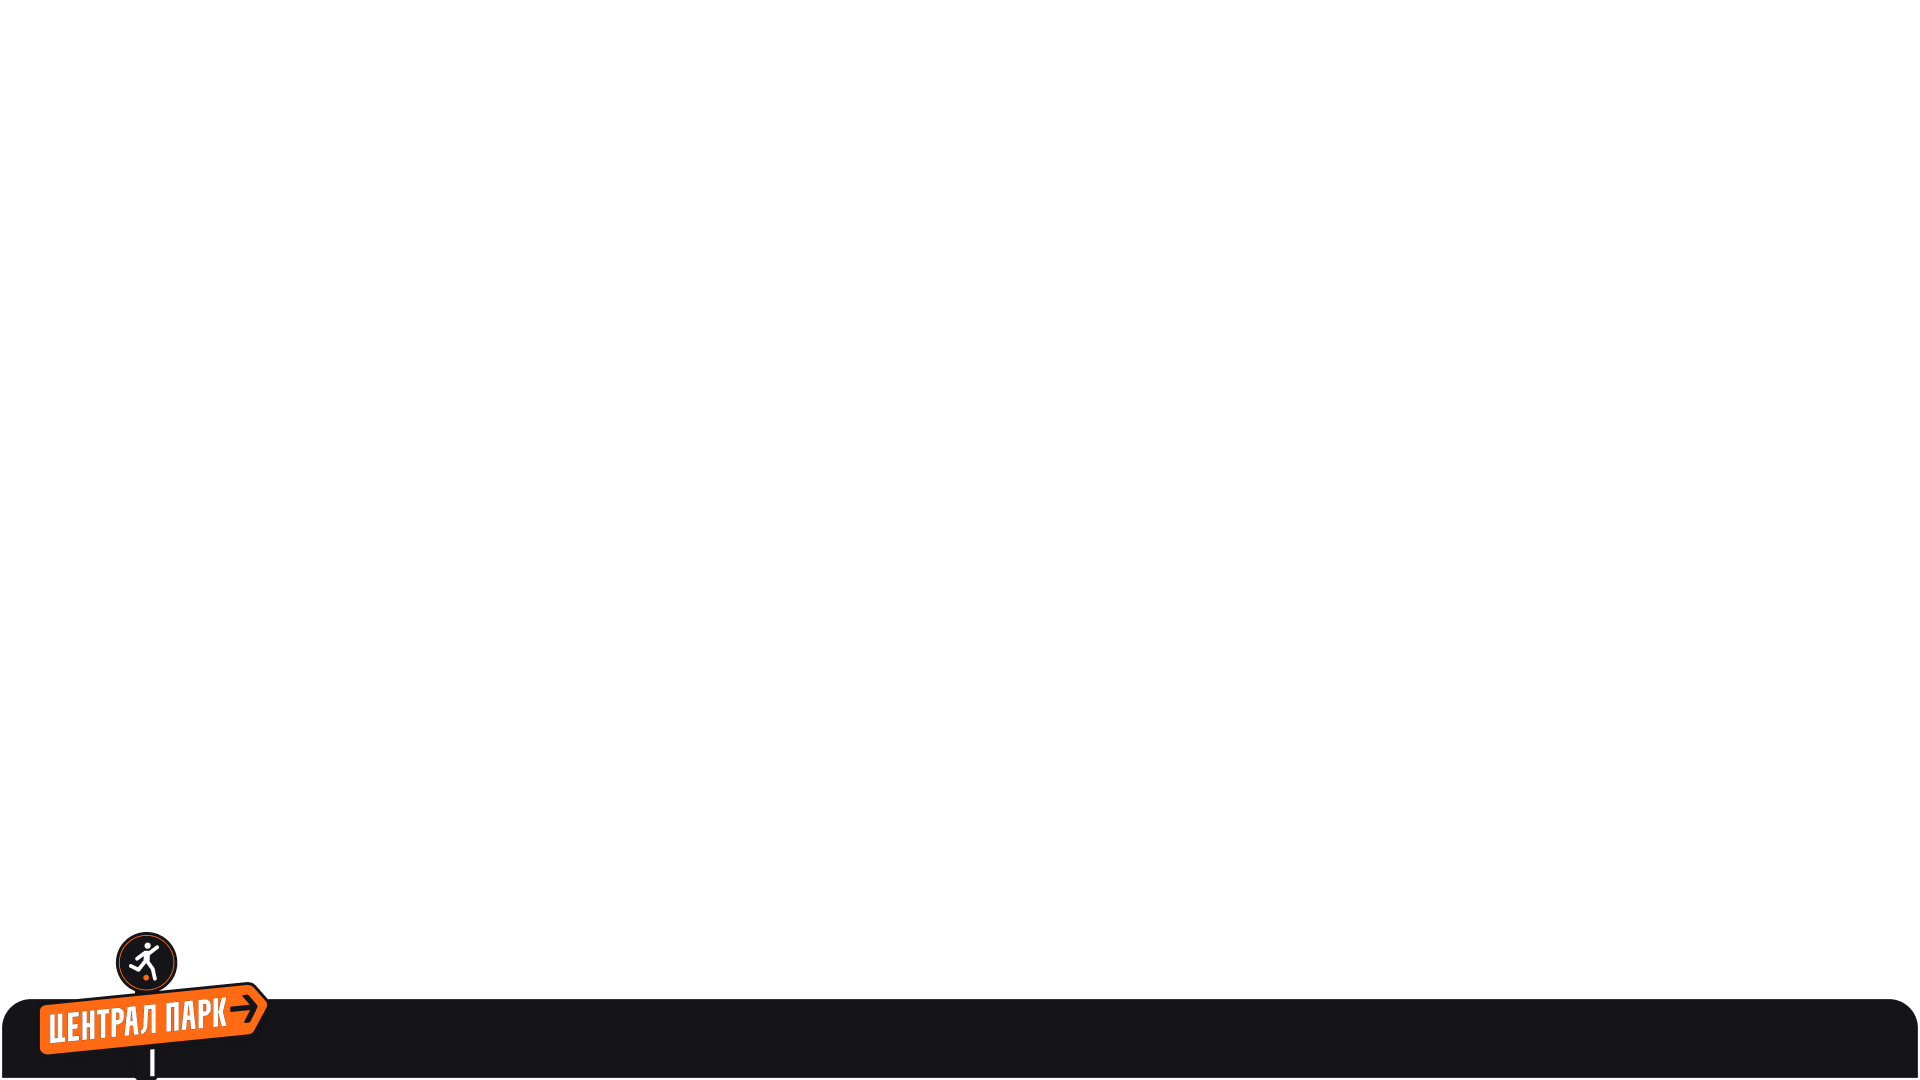
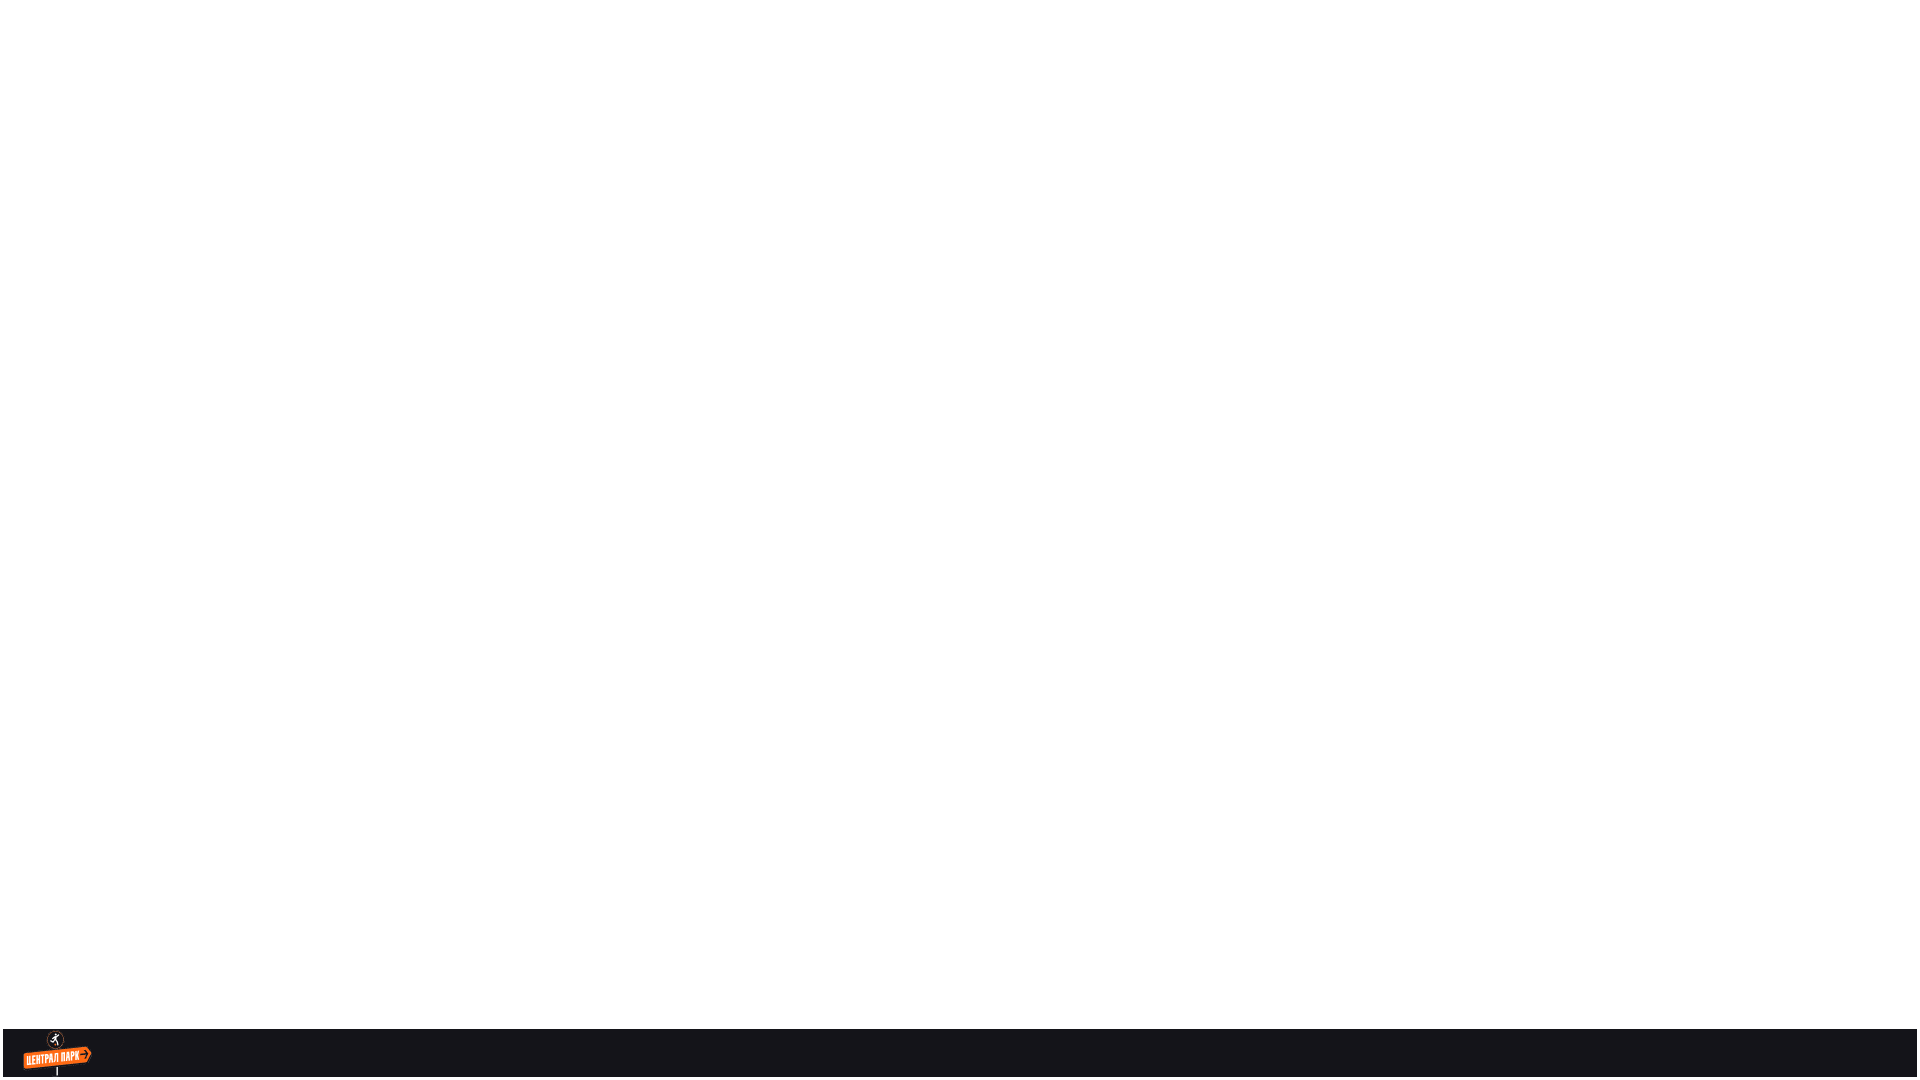
Use compact transparent football ticker

Changed region(s): [[0.0, 0.8556, 1.0, 1.0]]

diff --git a/test/worker.test.js b/test/worker.test.js
@@ -163,11 +163,13 @@ test('football ticker includes the supplied font and background', async () => {
   assert.match(body, /width: 1920px/);
   assert.match(body, /height: 1080px/);
   assert.match(body, /\.ticker-mask \{/);
-  assert.match(body, /left: 275px/);
-  assert.match(body, /right: 40px/);
-  assert.match(body, /bottom: 6px/);
-  assert.match(body, /height: 70px/);
-  assert.match(body, /font-size: 34px/);
+  assert.match(body, /left: 110px/);
+  assert.match(body, /right: 36px/);
+  assert.match(body, /bottom: 3px/);
+  assert.match(body, /height: 48px/);
+  assert.match(body, /z-index: 1/);
+  assert.match(body, /display: inline-block/);
+  assert.match(body, /font-size: 29px/);
   assert.match(body, /width: 100%/);
   assert.match(body, /height: 100%/);
   assert.match(body, /background: #000/);
@@ -226,4 +228,63 @@ test('football ticker has a visible fallback and debug diagnostics', () => {
   assert.match(body, /background loaded:/);
   assert.match(body, /font loaded:/);
   assert.match(body, /last JS error:/);
+});
+
+test('football ticker supports transparent vMix mode', async () => {
+  const response = await worker.fetch(request('/ticker/football.html?transparent=1'), {});
+  const body = await response.text();
+
+  assert.equal(response.status, 200);
+  assert.match(body, /document\.body\.classList\.toggle\('transparent', transparent\)/);
+  assert.match(body, /body\.transparent \{ background: transparent; \}/);
+  assert.match(body, /\.ticker-stage \{/);
+  assert.match(body, /background: transparent/);
+});
+
+test('Telegram football links separate transparent vMix and preview URLs', async () => {
+  const originalFetch = globalThis.fetch;
+  const telegramCalls = [];
+
+  try {
+    globalThis.fetch = async (input, init = {}) => {
+      if (String(input).includes('api.telegram.org')) {
+        telegramCalls.push(JSON.parse(init.body));
+        return new Response(JSON.stringify({ ok: true, result: true }), {
+          headers: { 'content-type': 'application/json' },
+        });
+      }
+      return new Response('', { status: 404 });
+    };
+
+    const env = {
+      TELEGRAM_BOT_TOKEN: 'test-token',
+      PUBLIC_BASE_URL: 'https://bolshe-ticker-hub.znamteam-903.workers.dev',
+    };
+    const callback = (data) => request('/telegram/webhook', {
+      method: 'POST',
+      headers: { 'content-type': 'application/json' },
+      body: JSON.stringify({
+        callback_query: {
+          id: `callback-${data}`,
+          data,
+          message: { message_id: 1, chat: { id: 1 } },
+        },
+      }),
+    });
+
+    await worker.fetch(callback('football:url'), env);
+    assert.equal(
+      telegramCalls.find((call) => call.text)?.text,
+      'https://bolshe-ticker-hub.znamteam-903.workers.dev/ticker/football.html?transparent=1',
+    );
+
+    telegramCalls.length = 0;
+    await worker.fetch(callback('football:preview'), env);
+    assert.equal(
+      telegramCalls.find((call) => call.text)?.text,
+      'https://bolshe-ticker-hub.znamteam-903.workers.dev/ticker/football.html',
+    );
+  } finally {
+    globalThis.fetch = originalFetch;
+  }
 });

diff --git a/src/render.js b/src/render.js
@@ -150,9 +150,9 @@ function renderTickerClient(config) {
       fitStage();
       restart(activeText);
     });
-    if (params.get('transparent') === '1') {
-      document.documentElement.classList.add('transparent-mode');
-    }
+    const transparent = params.get('transparent') === '1';
+    document.documentElement.classList.toggle('transparent-mode', transparent);
+    document.body.classList.toggle('transparent', transparent);
     fitStage();
     setEnabled(serverConfig.enabled);
     updateDiagnostics();
@@ -208,7 +208,8 @@ function renderSharedStageStyles() {
       background: #000;
     }
     html.transparent-mode,
-    html.transparent-mode body { background: transparent; }
+    html.transparent-mode body,
+    body.transparent { background: transparent; }
     .ticker-stage {
       position: fixed;
       width: 1920px;
@@ -267,17 +268,17 @@ export function renderFootballTicker(items, state, metadata = {}) {
   <style>
     ${renderSharedStageStyles()}
     .football .ticker-mask {
-      left: 275px;
-      right: 40px;
-      bottom: 6px;
-      height: 70px;
-      -webkit-mask-image: linear-gradient(to right, transparent 0, #000 35px, #000 calc(100% - 80px), transparent 100%);
-      mask-image: linear-gradient(to right, transparent 0, #000 35px, #000 calc(100% - 80px), transparent 100%);
+      left: 110px;
+      right: 36px;
+      bottom: 3px;
+      height: 48px;
+      z-index: 1;
     }
     .football .ticker-track {
+      display: inline-block;
       color: #f2f2f2;
       font-family: 'PFDinTextCompPro-BoldItal', sans-serif;
-      font-size: 34px;
+      font-size: 29px;
       font-weight: 700;
     }
     .debug-panel {
@@ -326,7 +327,7 @@ export function renderFootballTicker(items, state, metadata = {}) {
     updatedAt: metadata.updatedAt,
     backgroundUrl: '/assets/football-ticker-bg.png',
     fontFamily: 'PFDinTextCompPro-BoldItal',
-    fontProbeSize: 34,
+    fontProbeSize: 29,
     stageSelector: '.ticker-stage',
     stageWidth: 1920,
     stageHeight: 1080,

diff --git a/src/telegram.js b/src/telegram.js
@@ -21,6 +21,7 @@ const TICKER_VARIANTS = {
     token: 'football',
     label: '⚽ Футбол ЧМ',
     path: '/ticker/football.html',
+    vmixPath: '/ticker/football.html?transparent=1',
   },
   'tennis-normal': {
     sport: 'tennis',
@@ -39,6 +40,12 @@ const TICKER_VARIANTS = {
 function tickerVariant(token) {
   if (token === 'tennis') return TICKER_VARIANTS['tennis-normal'];
   return TICKER_VARIANTS[token] || null;
+}
+
+function tickerPathFor(variant, sport, action = 'preview') {
+  const previewPath = variant?.path
+    || (sport === 'football' ? '/ticker/football.html' : '/ticker/tennis.html?height=normal');
+  return action === 'url' ? variant?.vmixPath || previewPath : previewPath;
 }
 
 function button(text, callbackData) {
@@ -118,7 +125,7 @@ async function showSportMenu(env, chatId, sport, origin, messageId = null, varia
   const news = await getTickerNews(env, sport, state);
   const baseUrl = publicBaseUrl(env, origin);
   const label = variant?.label || sport;
-  const tickerPath = variant?.path || (sport === 'football' ? '/ticker/football.html' : '/ticker/tennis.html?height=normal');
+  const tickerPath = tickerPathFor(variant, sport, 'url');
   const callbackToken = variant?.token || sport;
   const text = [
     `${label} ticker`,
@@ -247,9 +254,9 @@ async function handleCallback(env, query, origin) {
 
   const state = await getState(env, sport);
   const baseUrl = publicBaseUrl(env, origin);
-  const tickerPath = variant?.path || (sport === 'football' ? '/ticker/football.html' : '/ticker/tennis.html?height=normal');
 
   if (action === 'url' || action === 'preview') {
+    const tickerPath = tickerPathFor(variant, sport, action);
     await sendMessage(env, chatId, `${baseUrl}${tickerPath}`);
   } else if (action === 'add') {
     await setJson(env, sessionKey(chatId), {

diff --git a/src/config.js b/src/config.js
@@ -1,4 +1,4 @@
-export const BUILD_VERSION = 'ticker-hub-tennis-assets-v5-2026-06-12';
+export const BUILD_VERSION = 'ticker-hub-football-compact-v6-2026-06-12';
 export const ADMIN_SECRET_HEADER = 'x-ticker-admin-secret';
 export const ADMIN_SECRET_HEADER_ALIAS = 'x-admin-secret';
 export const SPORTS = ['football', 'tennis'];

diff --git a/PRODUCTION_STATUS.md b/PRODUCTION_STATUS.md
@@ -9,6 +9,7 @@ https://bolshe-ticker-hub.znamteam-903.workers.dev
 Ready:
 
 - football ticker at `/ticker/football.html`;
+- transparent football vMix ticker at `/ticker/football.html?transparent=1`;
 - responsive football layout with diagnostics at `/ticker/football.html?debug=1`;
 - tennis ticker at `/ticker/tennis.html?height=normal` and `/ticker/tennis.html?height=small`;
 - live Sports.ru parsing: 20 football World Cup items and 15 tennis items;
@@ -18,6 +19,16 @@ Ready:
 - protected Telegram webhook and complete bot menu logic;
 - supplied `PFDinTextCompPro-BoldItal` font;
 - local tests, HTTP checks and 1920x1080 browser verification.
+
+Football visual:
+
+```text
+asset: public/assets/football-ticker-bg.png
+visible plate: bottom 54px of the 1920x1080 transparent PNG
+mask: left 110px, right 36px, bottom 3px, height 48px
+font-size: 29px
+vMix URL: /ticker/football.html?transparent=1
+```
 
 Tennis visual assets:
 

diff --git a/README.md b/README.md
@@ -22,6 +22,7 @@ npm run dev
 ```text
 http://localhost:8787/api/health
 http://localhost:8787/ticker/football.html
+http://localhost:8787/ticker/football.html?transparent=1
 http://localhost:8787/ticker/football.html?debug=1
 http://localhost:8787/ticker/tennis.html
 http://localhost:8787/ticker/tennis.html?height=small
@@ -75,8 +76,8 @@ npx wrangler secret put ADMIN_CHAT_ID
 
 Внешний cron вызывает `GET /api/cron/refresh?secret=<TICKER_CRON_SECRET>` без headers и обновляет football + tennis cache. Маршрут также принимает trailing slash и безопасные `HEAD`-проверки сервисов мониторинга.
 
-Для vMix используйте Browser Source `1920x1080` и URL `/ticker/football.html`.
-Футбольная страница использует исходный `/assets/football-ticker-bg.png` как единое изображение в координатах `1920x1080`; responsive масштабирует весь stage целиком. Текстовая маска: `left: 275px`, `right: 40px`, `bottom: 6px`, `height: 70px`. Диагностический overlay доступен через `?debug=1`; прозрачный фон для broadcast source можно включить через `?transparent=1`.
+Для vMix используйте Browser Source `1920x1080` и URL `/ticker/football.html?transparent=1`.
+Футбольная страница использует компактный пользовательский `/assets/football-ticker-bg.png` как единое прозрачное изображение `1920x1080`; видимая плашка занимает нижние `54px`, responsive масштабирует весь stage целиком. Текстовая маска: `left: 110px`, `right: 36px`, `bottom: 3px`, `height: 48px`; font-size: `29px`. Диагностический overlay доступен через `?debug=1`; preview без параметров остаётся на чёрном фоне.
 
 Теннисная строка перенесена в hub как две готовые PNG-подложки, без пересборки дизайна в CSS:
 

diff --git a/public/assets/README_ASSETS.md b/public/assets/README_ASSETS.md
@@ -6,9 +6,9 @@ Current football ticker background:
 football-ticker-bg.png
 ```
 
-Original size: `1920×1080`.
+Size: `1920×1080`.
 
-This image already includes the lower plate, logo and decorative elements.
+This compact user-supplied image has a transparent upper area and a `54px` lower plate with the logo and frame.
 Do not redraw the logo in HTML; render only moving text over it.
 
 Current tennis ticker backgrounds:

diff --git a/ACCEPTANCE_CHECKLIST.md b/ACCEPTANCE_CHECKLIST.md
@@ -6,6 +6,7 @@
 - [ ] `npm run dev` запускает Worker locally.
 - [ ] `/api/health` -> ok.
 - [ ] `/ticker/football.html` -> HTTP 200.
+- [ ] `/ticker/football.html?transparent=1` -> transparent HTML/body/stage.
 - [ ] `/ticker/tennis.html?height=normal` -> HTTP 200.
 - [ ] `/ticker/tennis.html?height=small` -> HTTP 200.
 - [ ] `/api/news/football-world-cup` -> JSON.
@@ -27,6 +28,7 @@
 - [ ] Cloudflare deploy проходит.
 - [ ] Production `/api/health` ok.
 - [ ] Production `/ticker/football.html` открывается без авторизации.
+- [ ] Production `/ticker/football.html?transparent=1` показывает только плашку и текст без чёрного фона.
 - [ ] Production `/ticker/tennis.html?height=normal` открывается без авторизации.
 - [ ] Production `/ticker/tennis.html?height=small` открывается без авторизации.
 - [ ] `GET /api/cron/refresh?secret=wrong` -> HTTP 401.